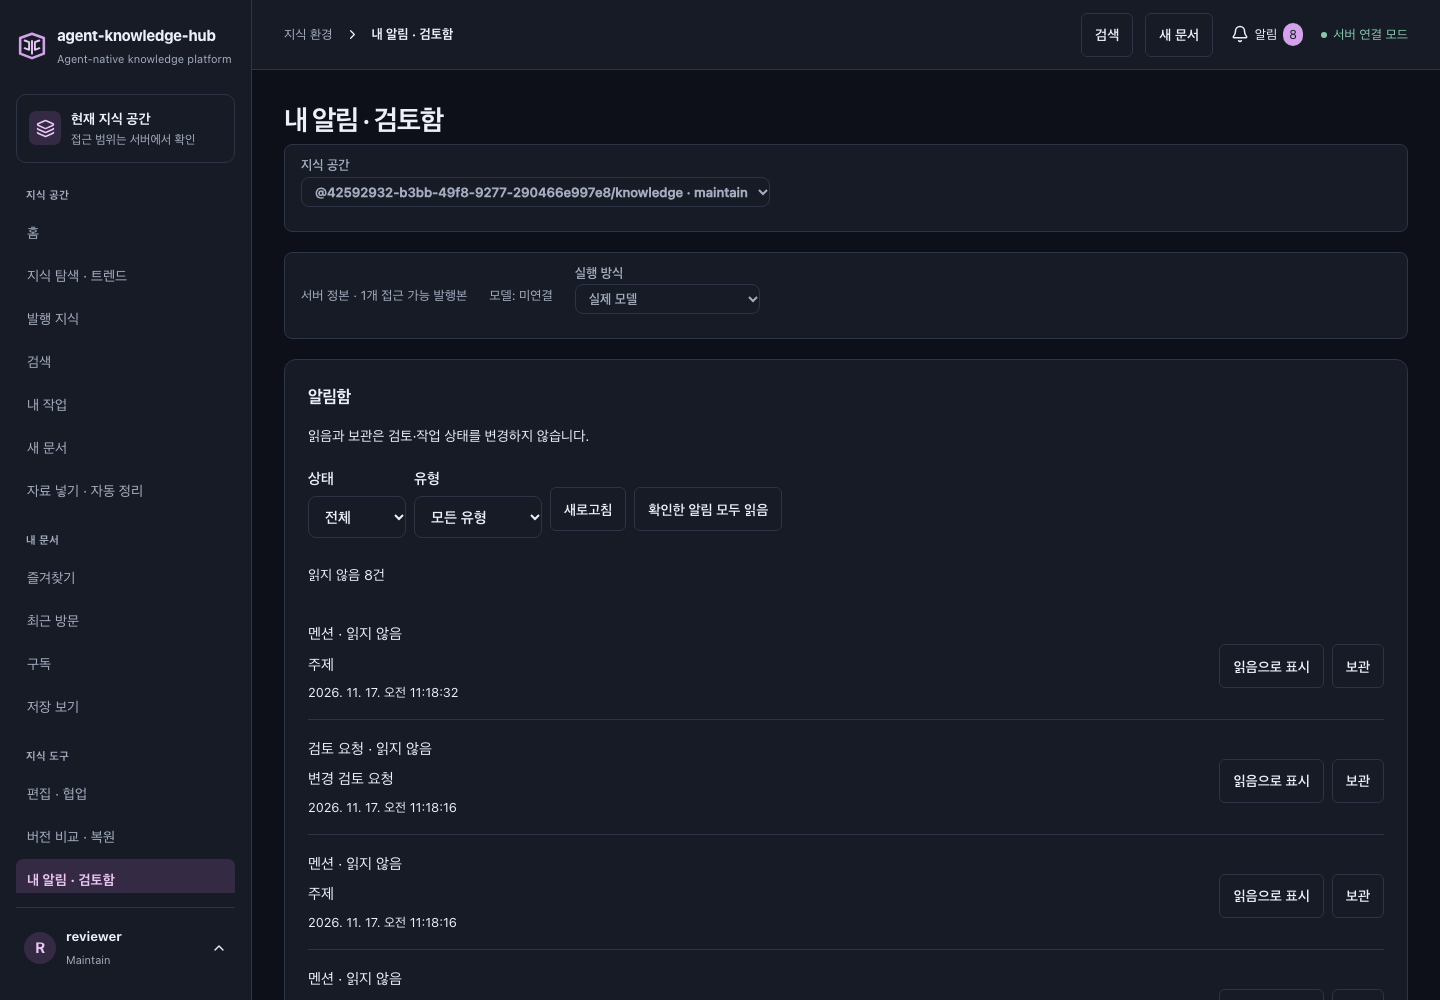
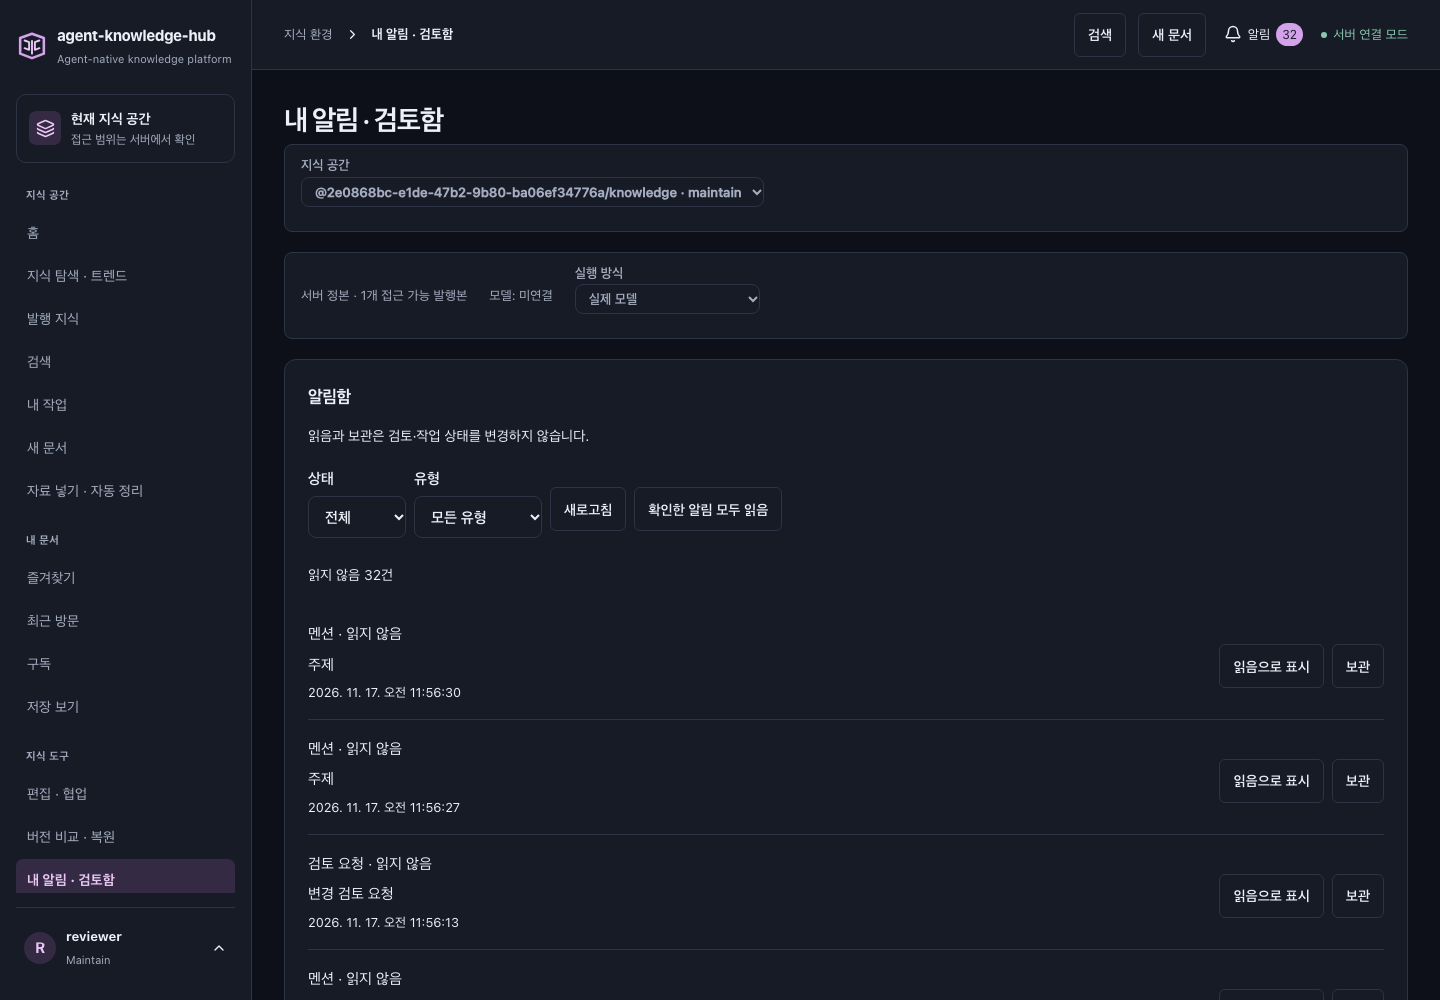
fix: preserve full inbox focus through live removals

diff --git a/src/operational/convenience/inbox.test.tsx b/src/operational/convenience/inbox.test.tsx
@@ -335,3 +335,59 @@ test("completion of an old filter mutation cannot clear a newer operation's busy
   await act(async () => pending[1](item(9)));
   expect(mark().disabled).toBe(false);
 });
+
+test.each(["arrival", "revoked-empty", "revoked-error"].flatMap(change => ["link", "read", "archive"].map(control => [change, control]))) (
+  "full inbox keeps authorized keyboard position after %s removes focused %s", async (change, control) => {
+    let changed = false;
+    const api = { get: async () => {
+      if (!changed) return inboxPage(Array.from({ length: 25 }, (_, n) => item(n)));
+      if (change === "revoked-error") throw Error("접근할 수 없습니다.");
+      return inboxPage(change === "arrival" ? [item(25), ...Array.from({ length: 24 }, (_, n) => item(n))] : []);
+    } } as unknown as OperationalApi;
+    const element = await mountInbox(api);
+    const row = element.querySelectorAll(".inbox-list li")[24];
+    const focused = row.querySelectorAll<HTMLElement>("a,button")[control === "link" ? 0 : control === "read" ? 1 : 2];
+    focused.focus(); expect(document.activeElement).toBe(focused);
+    changed = true;
+    await act(async () => window.dispatchEvent(new Event("focus")));
+    expect(element.textContent).not.toContain("문서 24");
+    expect(element.contains(document.activeElement), `removed row focus became ${document.activeElement?.tagName}`).toBe(true);
+    expect(document.activeElement).not.toBe(document.body);
+    if (change === "arrival") {
+      const currentRow = element.querySelectorAll(".inbox-list li")[24];
+      expect(document.activeElement).toBe(currentRow.querySelectorAll("a,button")[control === "link" ? 0 : control === "read" ? 1 : 2]);
+    } else expect(document.activeElement).toBe(element.querySelector('select[aria-label="알림 상태"]'));
+  },
+);
+test.each([
+  ["all", "보관"], ["unread", "읽음으로 표시"], ["archived", "보관 해제"],
+])("full inbox preserves a neighboring action after mutation removes its focused row in %s", async (state, label) => {
+  let removed = false;
+  const api = {
+    get: async () => ({ ...inboxPage([]), items: (removed ? [item(0)] : [item(0), item(1)]).map(i => ({ ...i, archivedAt: state === "archived" ? "2026-11-17T01:00:00Z" : null })) }),
+    post: async () => { removed = true; return {}; },
+  } as unknown as OperationalApi;
+  const element = await mountInbox(api);
+  const filter = element.querySelector('select[aria-label="알림 상태"]') as HTMLSelectElement;
+  if (state !== "all") await act(async () => { filter.value = state; filter.dispatchEvent(new Event("change", { bubbles: true })); });
+  const last = element.querySelectorAll(".inbox-list li")[1];
+  const button = [...last.querySelectorAll("button")].find(b => b.textContent === label)!;
+  button.focus();
+  await act(async () => button.click());
+  expect(element.textContent).not.toContain("문서 1");
+  expect(document.activeElement).toBe([...element.querySelectorAll(".inbox-list button")].find(b => b.textContent === label));
+});
+test.each(["outside-control", "filter", "outside-pointer"])("full inbox refresh does not steal focus after user leaves via %s", async (destination) => {
+  let changed = false;
+  const api = { get: async () => inboxPage(changed ? [] : [item(0)]) } as unknown as OperationalApi;
+  const element = await mountInbox(api);
+  (element.querySelector(".inbox-list a") as HTMLElement).focus();
+  const outside = document.createElement("button");document.body.append(outside);
+  if (destination === "outside-control") outside.focus();
+  else if (destination === "filter") (element.querySelector("select") as HTMLElement).focus();
+  else document.body.dispatchEvent(new MouseEvent("pointerdown", { bubbles: true }));
+  const prior = document.activeElement;
+  changed = true;await act(async () => window.dispatchEvent(new Event("focus")));
+  if (destination === "outside-pointer") expect(document.activeElement).toBe(document.body);
+  else expect(document.activeElement).toBe(prior);
+});

diff --git a/src/operational/convenience/inbox-focus.ts b/src/operational/convenience/inbox-focus.ts
@@ -1,0 +1,78 @@
+import { useEffect, useLayoutEffect, useRef, useState, type FocusEvent } from "react";
+
+const controls = "a[href],button:not(:disabled),select:not(:disabled),[tabindex='0']";
+const scrollPosition = (node: HTMLElement) => {
+  const ancestors: { node: HTMLElement; top: number; left: number }[] = [];
+  for (let parent = node.parentElement; parent; parent = parent.parentElement)
+    ancestors.push({ node: parent, top: parent.scrollTop, left: parent.scrollLeft });
+  return { ancestors, x: window.scrollX, y: window.scrollY };
+};
+
+/** Recover only a removed focused control, using the current authorized DOM.
+ * No rows or protected text are cached to preserve keyboard position. */
+export function useInboxFocus<T extends HTMLElement>(enabled = true) {
+  const container = useRef<T>(null);
+  const focused = useRef<{
+    node: HTMLElement;
+    rowIndex: number;
+    controlIndex: number;
+    scroll: ReturnType<typeof scrollPosition>;
+  } | null>(null);
+  const [notice, setNotice] = useState("");
+  useEffect(() => {
+    if (!enabled) return;
+    const leave = (event: Event) => {
+      if (!container.current?.contains(event.target as Node)) focused.current = null;
+    };
+    const scroll = () => {
+      const current = focused.current;
+      if (current?.node.isConnected && document.activeElement === current.node)
+        current.scroll = scrollPosition(current.node);
+    };
+    document.addEventListener("focusin", leave);
+    document.addEventListener("pointerdown", leave, true);
+    window.addEventListener("scroll", scroll, true);
+    return () => {
+      document.removeEventListener("focusin", leave);
+      document.removeEventListener("pointerdown", leave, true);
+      window.removeEventListener("scroll", scroll, true);
+    };
+  }, [enabled]);
+  useLayoutEffect(() => {
+    if (!enabled) { focused.current = null; return; }
+    const previous = focused.current;
+    if (!previous || previous.node.isConnected || !container.current) return;
+    // An intentional move to another control must never be overridden by refresh.
+    if (document.activeElement && document.activeElement !== document.body) {
+      focused.current = null;
+      return;
+    }
+    const rows = [...container.current.querySelectorAll<HTMLElement>("[data-inbox-row]")];
+    const row = rows[Math.min(previous.rowIndex, rows.length - 1)];
+    const currentControls = row ? [...row.querySelectorAll<HTMLElement>(controls)] : [];
+    const target = currentControls[Math.min(previous.controlIndex, currentControls.length - 1)]
+      ?? container.current.querySelector<HTMLElement>("[data-inbox-focus-fallback]")
+      ?? container.current.querySelector<HTMLElement>(controls);
+    focused.current = null;
+    if (!target) return;
+    target.focus({ preventScroll: true });
+    for (const { node, top, left } of previous.scroll.ancestors) {
+      if (node.isConnected) { node.scrollTop = top; node.scrollLeft = left; }
+    }
+    if (window.scrollX !== previous.scroll.x || window.scrollY !== previous.scroll.y)
+      window.scrollTo(previous.scroll.x, previous.scroll.y);
+    setNotice("알림 목록이 변경되어 현재 표시된 항목으로 초점을 옮겼습니다.");
+  });
+  const onFocusCapture = (event: FocusEvent<T>) => {
+    const node = event.target as HTMLElement;
+    const rows = [...event.currentTarget.querySelectorAll<HTMLElement>("[data-inbox-row]")];
+    const row = node.closest<HTMLElement>("[data-inbox-row]");
+    focused.current = {
+      node,
+      rowIndex: Math.max(0, row ? rows.indexOf(row) : 0),
+      controlIndex: Math.max(0, row ? [...row.querySelectorAll<HTMLElement>(controls)].indexOf(node) : 0),
+      scroll: scrollPosition(node),
+    };
+  };
+  return { container, onFocusCapture, notice };
+}

diff --git a/src/operational/convenience/NotificationBell.tsx b/src/operational/convenience/NotificationBell.tsx
@@ -1,4 +1,4 @@
-import { useEffect, useLayoutEffect, useRef, useState } from "react";
+import { useEffect, useRef, useState } from "react";
 import { Bell } from "lucide-react";
 import { Button } from "../../ui/primitives";
 import {
@@ -8,26 +8,14 @@ import {
   type InboxProps,
 } from "./inbox-client";
 import "./inbox.css";
+import { useInboxFocus } from "./inbox-focus";
 export function NotificationBell(
   props: InboxProps & { onOpenInbox: () => void },
 ) {
   const { page, error, refresh } = useInbox(props, "state=all&limit=5");
   const [open, setOpen] = useState(false);
-  const [focusNotice, setFocusNotice] = useState("");
-  const focused = useRef<{ node: HTMLElement; index: number; scrollTop: number } | null>(null);
-  const trigger = useRef<HTMLButtonElement>(null),
-    panel = useRef<HTMLDivElement>(null);
-  useLayoutEffect(() => {
-    if (!open) { focused.current = null; return; }
-    const previous = focused.current;
-    if (!previous || previous.node.isConnected || !panel.current) return;
-    // Removed rows are never retained: select only a currently rendered, authorized control.
-    const links = [...panel.current.querySelectorAll<HTMLElement>("a")];
-    const target = links[Math.min(previous.index, links.length - 1)] ?? panel.current.querySelector<HTMLElement>("button");
-    target?.focus({ preventScroll: true });
-    panel.current.scrollTop = previous.scrollTop;
-    setFocusNotice("알림 목록이 변경되어 현재 표시된 항목으로 초점을 옮겼습니다.");
-  }, [open, page, error]);
+  const focus = useInboxFocus<HTMLDivElement>(open);
+  const trigger = useRef<HTMLButtonElement>(null), panel = focus.container;
   useEffect(() => {
     if (!open) return;
     const close = (event: KeyboardEvent) => {
@@ -78,20 +66,10 @@ export function NotificationBell(
           className="inbox-preview"
           role="dialog"
           aria-label="최근 알림"
-          onFocusCapture={(event) => {
-            const node = event.target as HTMLElement;
-            const links = [...event.currentTarget.querySelectorAll<HTMLElement>("a")];
-            focused.current = { node, index: Math.max(0, links.indexOf(node)), scrollTop: event.currentTarget.scrollTop };
-          }}
-          onBlurCapture={(event) => {
-            if (event.relatedTarget && !event.currentTarget.contains(event.relatedTarget as Node)) focused.current = null;
-          }}
-          onScroll={(event) => {
-            if (focused.current) focused.current.scrollTop = event.currentTarget.scrollTop;
-          }}
+          onFocusCapture={focus.onFocusCapture}
         >
           <h2>최근 알림</h2>
-          <span className="inbox-live" role="status">{focusNotice}</span>
+          <span className="inbox-live" role="status">{focus.notice}</span>
           {error ? (
             <>
               <p role="alert">{error}</p>
@@ -103,7 +81,7 @@ export function NotificationBell(
             <>
               <ul>
                 {page.items.map((item) => (
-                  <li key={item.id}>
+                  <li key={item.id} data-inbox-row>
                     <a
                       href={inboxHref(props.spaceId, item.target)}
                       onClick={(e) => {

diff --git a/src/operational/convenience/NotificationInbox.tsx b/src/operational/convenience/NotificationInbox.tsx
@@ -7,6 +7,7 @@ import {
   type InboxProps,
 } from "./inbox-client";
 import "./inbox.css";
+import { useInboxFocus } from "./inbox-focus";
 export function NotificationInbox(props: InboxProps) {
   const [state, setState] = useState("all"),
     [type, setType] = useState(""),
@@ -18,15 +19,18 @@ export function NotificationInbox(props: InboxProps) {
     ...(cursor ? { cursor } : {}),
   }).toString();
   const inbox = useInbox(props, query);
+  const focus = useInboxFocus<HTMLElement>();
   return (
-    <section className="op-panel personal-inbox" aria-label="개인 알림함">
+    <section ref={focus.container} onFocusCapture={focus.onFocusCapture} className="op-panel personal-inbox" aria-label="개인 알림함">
       <h2>알림함</h2>
+      <span className="inbox-live" role="status">{focus.notice}</span>
       <p>읽음과 보관은 검토·작업 상태를 변경하지 않습니다.</p>
       <div className="inbox-filters">
         <label>
           상태{" "}
           <select
             aria-label="알림 상태"
+            data-inbox-focus-fallback
             value={state}
             onChange={(e) => {
               setState(e.target.value);
@@ -85,7 +89,7 @@ export function NotificationInbox(props: InboxProps) {
           <p>읽지 않음 {inbox.page.unreadCount}건</p>
           <ul className="inbox-list">
             {inbox.page.items.map((item) => (
-              <li key={item.id}>
+              <li key={item.id} data-inbox-row>
                 <div>
                   <span>
                     {inboxTypeLabels[item.type]} ·{" "}

diff --git a/docs/ui-validation/2026-11-17-personal-inbox/inbox-runtime.ts b/docs/ui-validation/2026-11-17-personal-inbox/inbox-runtime.ts
@@ -16,7 +16,7 @@ const root=process.env.TEST_DATABASE_URL;const admin=new Pool({connectionString:
 const f=await fixture();await adoptFixture(f.pool,f.workspaceId);const runtime=new RuntimeService(f.pool);const workflow=new WorkflowService(f.pool,runtime,authorizeInTransaction);const core=new KnowledgeService(f.pool);
 const collaboration=new CollaborationService(f.pool,{authorize:authorizeInTransaction,assertDispatcher:async()=>{},verifyRecipient:async()=>{throw Error("UNCONFIGURED");},resolveReviewResponsibility:resolveGovernanceResponsibility},{applicationOrigin:"http://127.0.0.1:5192"});
 await collaboration.subscribe(f.ctx,{scope:"space",enabled:true});
-for(let n=1;n<=6;n++)await workflow.addComment(f.editor,"topic",{version:1,content:`알림 확인용 합성 댓글 ${n}`,mentions:["reviewer"]});
+for(let n=1;n<=30;n++)await workflow.addComment(f.editor,"topic",{version:1,content:`알림 확인용 합성 댓글 ${n}`,mentions:["reviewer"]});
 await core.propose(f.editor,[{id:"topic",title:"변경 검토 예시",summary:"합성 검토",content:"검토할 변경",sourceIds:["source-a"],baseVersion:1,scope:"team",links:[],facts:[]}],["source-a"]);
 await collaboration.scanEvents();
 const auth={authenticate:async(req: {headers: {cookie?: string}})=>({...((req.headers.cookie === "synthetic-editor") ? f.editor : f.ctx),csrfToken:"test-only-csrf"}),requestGuard:()=>({revalidate:async()=>{},assertSession:async()=>{}})};

diff --git a/docs/MISTAKE_LOG.md b/docs/MISTAKE_LOG.md
@@ -937,3 +937,11 @@
 - #55/58/61/57/64의 최종 각8개 원격 검사와 독립 리뷰를 확인하고 순서대로 통합했다. 예약 발행이 기존 publish 본문을 preparePublicationDb/publishInTransaction으로 추출하므로, 가져오기 복원의 applyPublishedImportAttachments를 그 코어 안에서 metadata plan 적용 뒤·published snapshot 캡처 전에 보존했다. 질문/예약 UI import와 CSS, 문서/실패 기록도 양쪽을 보존했다.
 - 통합 native 5파일49시험(예약 서비스14·HTTP1, 가져오기10, version publication8, staged 알림16)이 통과했다. 첫 전체 check는 기존 C1 Navigation 공유 URL 사례만 AccessManager의 capabilities.manageOrganization undefined로 실패했다. 다른298프런트 시험은 통과했지만 해당 전체검사를 통과로 취급하지 않는다. 같은 사례가 Task16의 무변경 UI 검증에서도 일시 실패했었다.
 - 원인: 시험 mock의 미처리 /access 요청에 유효한 AccessState 대신 {items:[]}와200을 반환했고, lazy 관리자 화면이 늦게 완료되는 순서에 따라 오류가 나타났다. 이 공유 링크 시험과 무관한 관리 API 응답만 실제 가능한403 FORBIDDEN으로 명시했다. 제품 코드/인가/모든 기존 assertion과 다른 fixture 경로는 그대로다. 최종 전체 check(299프런트/48Node/16import/41평가/251요구사항/서버타입/build/smoke)가 통과했다. fixture의 좁은 독립 리뷰와 최종 원격 검사는 별도다.
+
+
+### 2026-11-17 — 최종 C2 전체 목록 초점 누락과 실제 main 통합
+
+- 최종 whole-branch 리뷰는 서버/이전4개 수정을 확인했으나, 다섯 건 미리보기만 복구하고 전체25건 목록에는 같은 처리가 없던 누락을 발견했다. 새 도착·원본 철회로 마지막 행을 제거하면 링크/읽음/보관 버튼의 초점이 BODY로 빠졌다. 리뷰어의 별도 arrival/revoked2재현을 확인하고 프로젝트에서 오류 응답과 자기 mutation 제거까지12실패를 재현했다. 이전 회귀/브라우저 성공을 이 미검증 경계의 성공으로 확대하지 않는다.
+- 먼저 main537ba7a(#68)의 실제 검색 index/질문 scope/collector/roundtrip/예약 발행 변경을 true base6366597로 병합했다. docs양쪽 기록, retention의 inbox 및 index 제어, App의 C2와 질문/예약 UI를 모두 보존했다. App의 포맷 차이로 어긋난 JSX conflict는 기능 위치에 문맥 수정하고 읽기 전용 정규화 비교로 main 기능이 전부 남았음을 확인했다. CIserver20/마이그레이션140은 유지한다. 첫 Badge anchor assertion은 App 쓰기 전에 실패했고, 충돌 상태에서 정규화하려다 큰 parser 로그를 출력했다. 실제 공백에 맞는 문맥을 사용하고 오류 출력을 제한해 다시 검증했다. 커밋된 기존 작업 폐기/재구성·미관 정리는 하지 않았다.
+- 조치: 미리보기와 전체 목록에 공통 focus helper를 적용해 제거된 제어만 현재 인가된 이웃 행의 같은 제어 또는 안정된 상태 필터로 옮긴다. 사용자 focus/pointer가 밖으로 이동하면 복구하지 않는다. preventScroll 및 현재 범위 안의 조상/viewport scroll을 유지하며 보호된 과거 행을 캐시하지 않는다.
+- 검증: UI RED12→GREEN31; 통합 최종 한 번 npm run check(frontend330/Node48/import16/evaluation41/251요구사항/서버types/build/smoke) exit0, C2 및 새 main의 공유 발행·가져오기·검색·질문·탐색 경계21native파일 모두 통과(상세 수는 인계/task report). 실제1440/390 light/dark26장과 실제 도착·보관·철회·scroll/focus assertion을 재검증했다. 이전8c1be04의 remote run44004491997 필수8jobs 성공은 컨트롤러가 확인했지만, 이 새로운 통합/focus HEAD의 CI를 대신하지 않는다. 기존 chunk 경고 및 실제 운영 인수 한계는 유지한다.

diff --git a/docs/AGENT_HANDOFF.md b/docs/AGENT_HANDOFF.md
@@ -798,3 +798,12 @@ FIX_BASE be613da의 I1/I2/I3/M1을 실제 실패로 확인한 뒤 수정했다. 
 
 - main #59의6366597을 보존한 뒤 #55 인덱스, #58 질문 범위, #61 실제 추가 수집기, #57 구조/이력 왕복을 각각 최종8검사·독립 승인과 통합 회귀 후 머지했다. #64 예약 발행은 같은 원자 발행 코어 안에 가져오기 첨부 훅을 보존해 통합한다. 요구사항SRH-001~010/QNA-004/CORE-010/COL-004/LIF-008/009/REV 발행 관련이며 전체251개 기준·현재 권한/원본 상한은 유지한다.
 - 통합 전체check299/48/16/41/251 및 native49시험이 통과했다. 처음 전체검사의 무효한 관리 API fixture 실패와 수정은 MISTAKE_LOG에 보존했다. 원격 최종 CI와 통합 broad review를 통과한 뒤 다음 main PR로 반영한다. 실제 회사 SSO/모델 품질·운영 인수와 성능 효과는 주장하지 않는다. 1노드/App1/DB1 최소리소스 기준을 유지한다.
+
+
+## 2026-11-17 C2 최종 main 통합·전체 목록 초점 수정
+
+main537ba7a를 true base6366597로 병합한 체크포인트a2a76e2에서 #55index/#58scope/#61collector/#57roundtrip/#64scheduled publication과 C2를 모두 유지했다. App 읽기 전용 정규화 diff는 main 대비 C2 Bell/Inbox 연결만 남는다. 공통 발행 코어/가져오기 attachment 적용, 현재 질문 범위, retention index/inbox schema/FK 검사를 유지한다. CIserver20과 migration140은 변경하지 않았다.
+
+최종 리뷰의 전체25건 목록 focus→BODY를12실패로 재현한 뒤 현재 DOM의 이웃 행·동일 제어 또는 상태 필터로 복구했다. Bell과 작은 helper를 공유하며 접근 불가 행을 보존하지 않고, 사용자가 밖으로 이동했으면 초점을 가져오지 않는다. UI31시험 통과. 최종 한 번 npm run check exit0(frontend330/Node48/import16/evaluation41/251요구사항/types/build/smoke), 파일별 disposable PG의21파일215시험 exit0. C2기존13파일에 예약 발행 service/realOIDC HTTP, roundtrip, version publication, search index, question scope core/HTTP, native navigation을 더해 실제 main 공유 경계를 검증했다.
+
+[실제26장과 전체25건 도착/보관/철회 focus·scroll 결과](ui-validation/2026-11-17-personal-inbox/README.md). 원시 로그는 local task report의 `c2-logs/akh-c2-final-wave-*`. 기존8c1be04 remote run44004491997 all8 성공은 과거 HEAD 증거이며, 최종 통합+focus HEAD의 독립 재리뷰/필수CI/병합은 별도다. 기능 범위는 C2로 유지하며 다음 C 작업이나 운영·지식품질 인수를 완료로 올리지 않는다.
